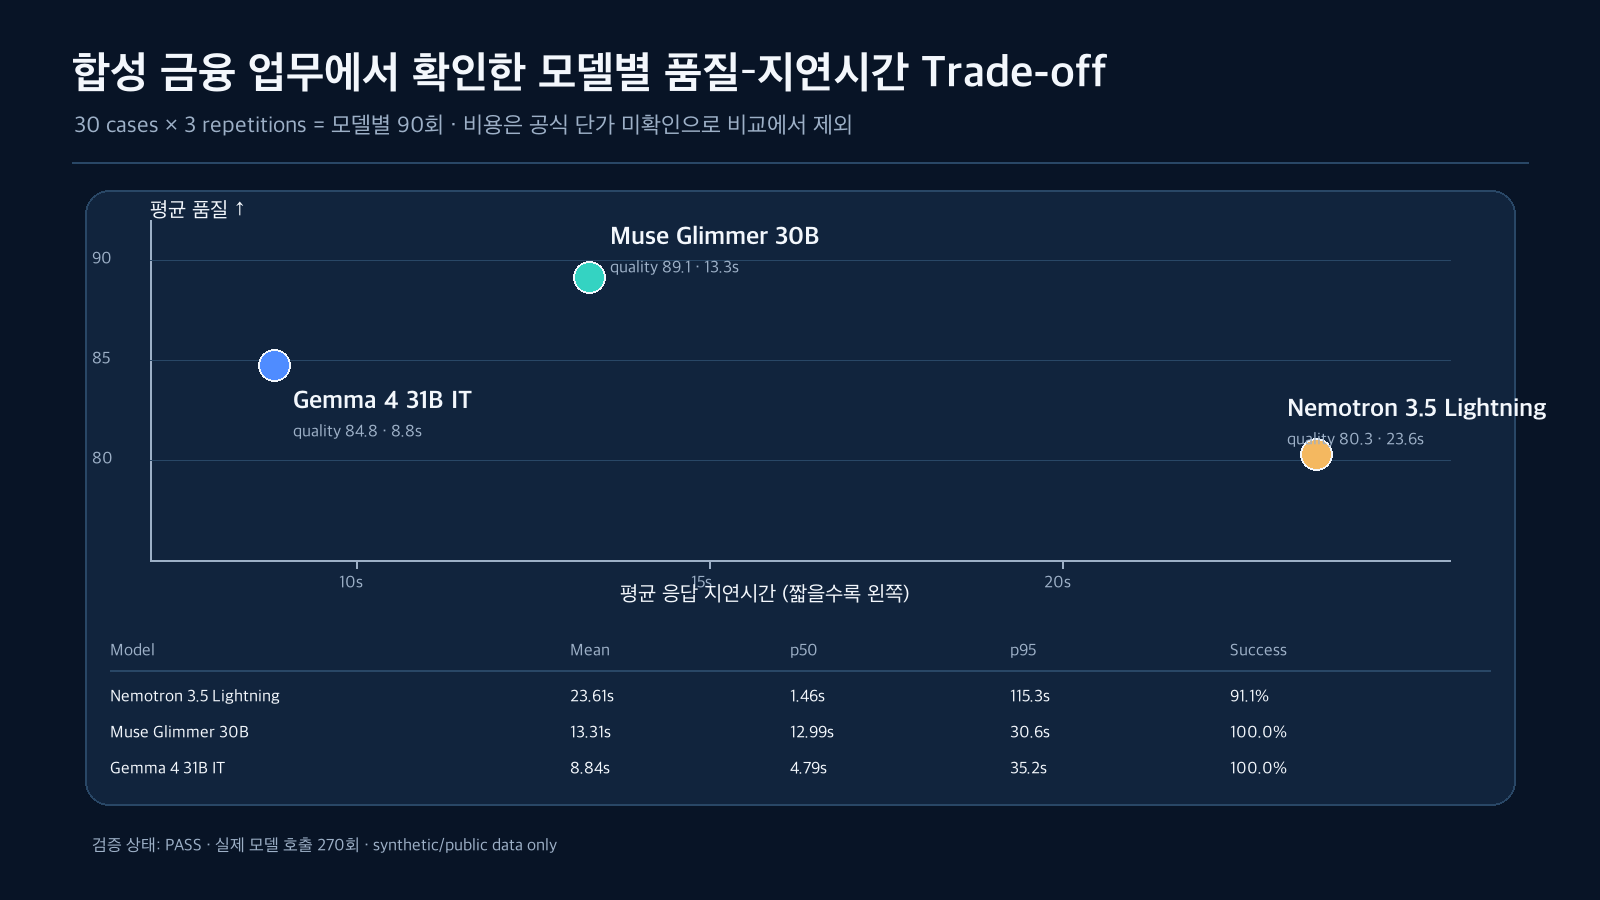
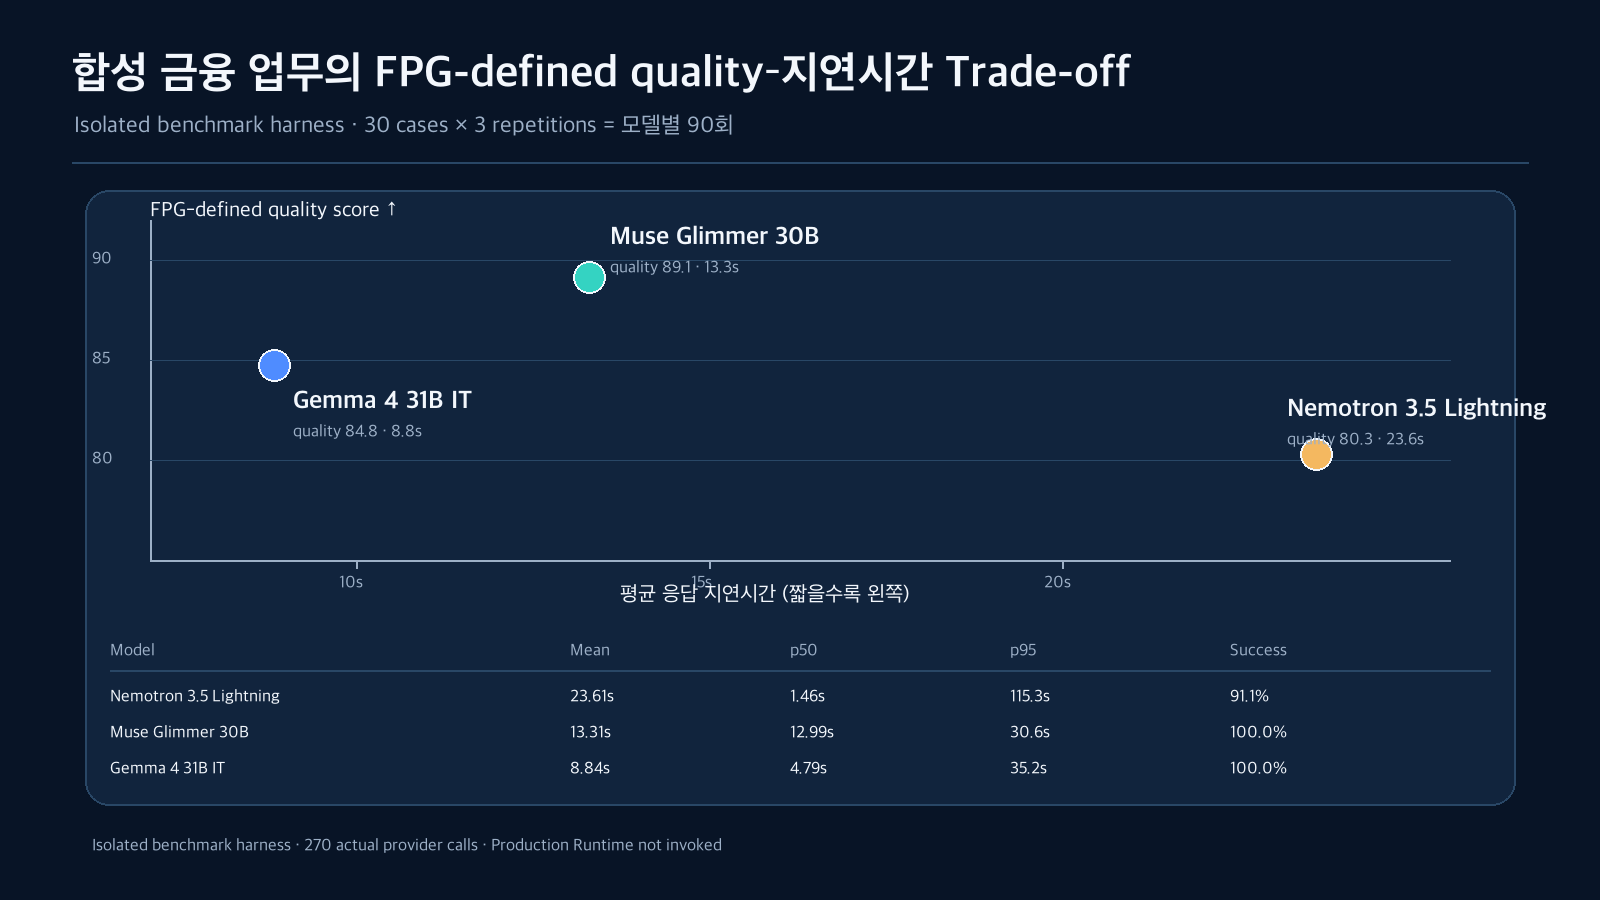
docs: clarify isolated AI benchmark evidence

Changed region(s): [[0.0312, 0.0622, 0.7188, 0.1556], [0.0625, 0.9333, 0.4375, 0.9644], [0.0938, 0.2178, 0.25, 0.2489]]

diff --git a/docs/blog/assets/charts/render_evidence_charts.py b/docs/blog/assets/charts/render_evidence_charts.py
@@ -93,8 +93,8 @@ def ai_tradeoff():
     validation = json.loads(validation_source.read_text(encoding="utf-8"))
 
     image, draw = base(
-        "합성 금융 업무에서 확인한 모델별 품질–지연시간 Trade-off",
-        "30 cases × 3 repetitions = 모델별 90회 · 비용은 공식 단가 미확인으로 비교에서 제외",
+        "합성 금융 업무의 FPG-defined quality–지연시간 Trade-off",
+        "Isolated benchmark harness · 30 cases × 3 repetitions = 모델별 90회",
     )
     left, top, right, bottom = 150, 220, 1450, 560
     draw.rounded_rectangle((85, 190, 1515, 805), radius=24, fill=PANEL, outline=LINE, width=2)
@@ -116,7 +116,7 @@ def ai_tradeoff():
         draw.line((left, y, right, y), fill=LINE, width=1)
         draw.text((92, y - 12), str(value), font=F_SMALL, fill=MUTED)
 
-    draw.text((150, 198), "평균 품질 ↑", font=F_BODY, fill=TEXT)
+    draw.text((150, 198), "FPG-defined quality score ↑", font=F_BODY, fill=TEXT)
     for value in [10000, 15000, 20000]:
         x = px(value)
         draw.line((x, bottom, x, bottom + 8), fill=MUTED, width=2)
@@ -156,7 +156,7 @@ def ai_tradeoff():
             draw.text((table_x[index], y), value, font=F_SMALL, fill=TEXT)
     draw.text(
         (92, 835),
-        f"검증 상태: {validation['status']} · 실제 모델 호출 {validation['actual_executions']}회 · synthetic/public data only",
+        f"Isolated benchmark harness · {validation['actual_executions']} actual provider calls · Production Runtime not invoked",
         font=F_SMALL,
         fill=MUTED,
     )

diff --git a/docs/blog/posts/05-ai-and-digital-asset.md b/docs/blog/posts/05-ai-and-digital-asset.md
@@ -66,9 +66,11 @@ Runtime request가 model ID나 임의 endpoint를 직접 전달하지 않는 이
 
 DA는 Provider를 다시 호출하지 않고 BE가 export한 evaluation bundle을 검증하고 비교할 수 있다.
 
-![합성 금융 업무의 모델별 품질과 평균 지연시간](../assets/charts/04-ai-model-quality-latency.png)
+아래 270회 모델 비교는 ADP-DA의 **격리된 benchmark harness**에서 수행한 실제 Provider 호출 결과다. BE Production Runtime을 통과한 270회 실행을 의미하지 않으며, 모델 평가 Evidence와 Runtime의 외부 실행 승인은 별개의 경계로 유지했다. Benchmark 실행 당시 Production governance는 fail-closed 상태였고 Production Runtime은 호출되지 않았다.
 
-고정된 합성 금융 업무 30 case를 모델별 3회씩 실행한 270회 benchmark에서도 하나의 모델이 모든 축을 지배하지 않았다. Muse Glimmer 30B는 평균 품질이 가장 높았고, Gemma 4 31B IT는 평균 지연시간이 가장 짧았다. 비용은 공식 per-model trial 단가를 확인하지 못해 비교에서 제외했다. 이 결과는 모델의 보편적 순위가 아니라 **같은 실행 조건과 metric contract를 고정해야 선택 근거를 다시 검토할 수 있다**는 예시다.
+![합성 금융 업무의 모델별 FPG-defined quality score와 평균 지연시간](../assets/charts/04-ai-model-quality-latency.png)
+
+고정된 합성 금융 업무 30 case를 모델별 3회씩 실행한 270회 benchmark에서도 하나의 모델이 모든 축을 지배하지 않았다. Muse Glimmer 30B는 이번 **FPG-defined quality score**에서 가장 높은 평균값을 보였고, Gemma 4 31B IT는 평균 지연시간이 가장 짧았다. 비용은 공식 per-model trial 단가를 확인하지 못해 비교에서 제외했다. 이 결과는 모델의 보편적 순위가 아니라 **같은 실행 조건과 metric contract를 고정해야 선택 근거를 다시 검토할 수 있다**는 예시다.
 
 평균만으로는 운영 특성이 가려졌다. Nemotron은 p50이 1.46초였지만 p95는 115.3초였고 성공률은 91.1%였다. Gemma도 평균은 8.84초지만 p95는 35.2초였다. 따라서 모델 선택 근거에는 중심값뿐 아니라 tail latency와 실패 비율을 함께 남겨야 한다.
 

diff --git a/docs/blog/assets/README.md b/docs/blog/assets/README.md
@@ -43,7 +43,7 @@ python3 docs/blog/assets/diagrams/render_diagrams.py
 - `charts/01-transform-relationship-utility.png`: AI Transform notebook cell 37 embedded output
 - `charts/02-destination-field-minimization.png`: DA-04 notebook cell 12 embedded output
 - `charts/03-recovery-strategy-risk.png`: DA-06 notebook cell 9 embedded output
-- `charts/04-ai-model-quality-latency.png`: model benchmark JSON 기반 재생성 차트
+- `charts/04-ai-model-quality-latency.png`: isolated benchmark harness의 model benchmark JSON 기반 재생성 차트
 - `charts/05-digital-asset-six-case-matrix.png`: local product E2E fixture 6개 기반 재생성 표
 - `charts/06-digital-asset-amount-precision.png`: DA-02 notebook cell 16 embedded output
 - `charts/07-zero-value-movement-evidence.png`: DA-03 notebook cell 29 embedded output
@@ -54,6 +54,8 @@ python3 docs/blog/assets/diagrams/render_diagrams.py
 python3 docs/blog/assets/charts/extract_notebook_figures.py
 python3 docs/blog/assets/charts/render_evidence_charts.py
 ```
+
+Artifact 차트를 재생성할 때는 `ADP-BE`와 `ADP-DA`를 동일한 상위 디렉터리에 두고, `ADP-DA`를 baseline commit `74af1928d720d4a37addeedab1770d81b4fff8a5`로 checkout해야 한다. Script는 이 commit과 입력 JSON/fixture의 SHA-256이 다르면 렌더링하지 않고 실패한다.
 
 Notebook 그림 추출 script는 원본 notebook SHA-256과 cell 번호를 확인한다. Artifact chart script는 ADP-DA commit과 benchmark/validation/fixture 파일별 SHA-256을 함께 확인한다. 정량 수치와 사용 한계는 [`../sources/notebook-evidence-map.md`](../sources/notebook-evidence-map.md)에 기록한다.
 

diff --git a/docs/blog/sources/claim-register.md b/docs/blog/sources/claim-register.md
@@ -15,7 +15,7 @@
 | 목적지별 Field 감소 | `N/A` | `SAVED_OUTPUT_HASHED` | DA-04 notebook, current contract | 개인정보 위험 감소율·Provider 성공률로 바꾸지 않음 |
 | Amount FLOAT64 정밀도 손실 | `N/A` | `SAVED_OUTPUT_HASHED` | DA-02 notebook, BigQuery 원본 매칭 73,266건 | 모든 자산·네트워크의 손실률로 일반화하지 않음 |
 | ZERO_VALUE의 별도 가치 이동 | `N/A` | `SAVED_OUTPUT_HASHED` | DA-03 notebook, 2026-01 분석대상 3,452건 | Ethereum 전체 거래 비율로 일반화하지 않음 |
-| AI 3-model benchmark | `N/A` | `VERSIONED_ARTIFACT_REGENERATED` | pinned benchmark/validation JSON, actual calls 270회 | 보편적 모델 순위·운영 승인으로 표현하지 않음 |
+| AI 3-model benchmark | `N/A` | `VERSIONED_ARTIFACT_REGENERATED` | pinned benchmark/validation JSON, isolated harness actual provider calls 270회, Production Runtime 미호출 | 보편적 모델 순위·운영 승인으로 표현하지 않음 |
 | Recovery 98.41% vs 0% | `N/A` | `SAVED_OUTPUT_HASHED` | DA-06 counterfactual notebook output | 실제 timeout·중복률 또는 성능 개선율로 표현하지 않음 |
 | `SENT_UNKNOWN` reconciliation-first | `LOCAL_E2E` | `LOCAL_E2E` | recovery tests, local fake adapter | 실제 Provider adapter와 구분 |
 | Policy Shadow/Maker-Checker/Selection rollback | `LOCAL_E2E` | `LOCAL_E2E` | policy E2E/concurrency tests | 실제 조직 승인 완료라고 쓰지 않음 |

diff --git a/docs/blog/series-plan.md b/docs/blog/series-plan.md
@@ -439,7 +439,7 @@ Governance 운영 모델과 사람의 승인 책임을 설명한다.
 | IMG-25 | Amount FLOAT64 정밀도 손실 | 5 | DA-02 Notebook embedded chart |
 | IMG-26 | ZERO_VALUE 실제 가치이동 | 5 | DA-03 Notebook embedded chart |
 
-실제 관리자 화면은 일곱 장만 사용한다. 모두 local synthetic fixture와 실제 BE API를 사용하는 2000px 폭의 전용 Chrome 창에서 다시 확보했고, 포인터·브라우저 chrome·잘린 카드가 없도록 panel 단위로 crop했다. 실행 결과를 보여주지 못하는 입력 대기 화면과 현재 편의 주장과 직접 연결되지 않는 승인 화면은 제외했다. 재현 가능한 상태를 고정하지 못한 임시 화면이나 mock fallback 화면은 발행 이미지로 사용하지 않는다.
+실제 관리자 화면은 여덟 장만 사용한다. 모두 local synthetic fixture와 실제 BE API를 사용하는 전용 Chrome 세션에서 다시 확보했고, 포인터·브라우저 chrome·잘린 카드가 없도록 주장에 필요한 영역만 crop했다. 실행 결과를 보여주지 못하는 입력 대기 화면과 현재 편의 주장과 직접 연결되지 않는 승인 화면은 제외했다. 재현 가능한 상태를 고정하지 못한 임시 화면이나 mock fallback 화면은 발행 이미지로 사용하지 않는다.
 
 ### 캡처 원칙
 

diff --git a/docs/blog/sources/notebook-evidence-map.md b/docs/blog/sources/notebook-evidence-map.md
@@ -45,7 +45,7 @@
 
 ## 별도 Artifact에서 만든 그림
 
-- `04-ai-model-quality-latency.png`: `benchmark_model_summary.json`과 `benchmark_validation.json`을 읽어 생성한다. 합성 업무 30 case × 3회 × 3 model, 실제 호출 270회 범위에만 적용한다. Mean뿐 아니라 p50, p95, 성공률을 함께 표시한다.
+- `04-ai-model-quality-latency.png`: `benchmark_model_summary.json`과 `benchmark_validation.json`을 읽어 생성한다. 합성 업무 30 case × 3회 × 3 model을 격리된 benchmark harness에서 수행한 실제 Provider 호출 270회 범위에만 적용한다. Production Runtime 실행이나 외부 실행 승인을 뜻하지 않는다. Mean뿐 아니라 p50, p95, 성공률을 함께 표시한다.
 - `05-digital-asset-six-case-matrix.png`: `local_product_e2e_v1`의 versioned synthetic fixture 6개를 읽어 생성한다. 예상 계약과 로컬 E2E 검증을 보여주며 실자산 실행을 의미하지 않는다.
 
 두 이미지는 [`render_evidence_charts.py`](../assets/charts/render_evidence_charts.py)로 재생성한다. Script는 ADP-DA commit `74af1928d720d4a37addeedab1770d81b4fff8a5`와 benchmark JSON 2개, 6-case fixture 6개의 SHA-256을 먼저 확인한다. commit이나 파일 내용이 바뀌면 PNG를 조용히 덮어쓰지 않고 실패한다.
